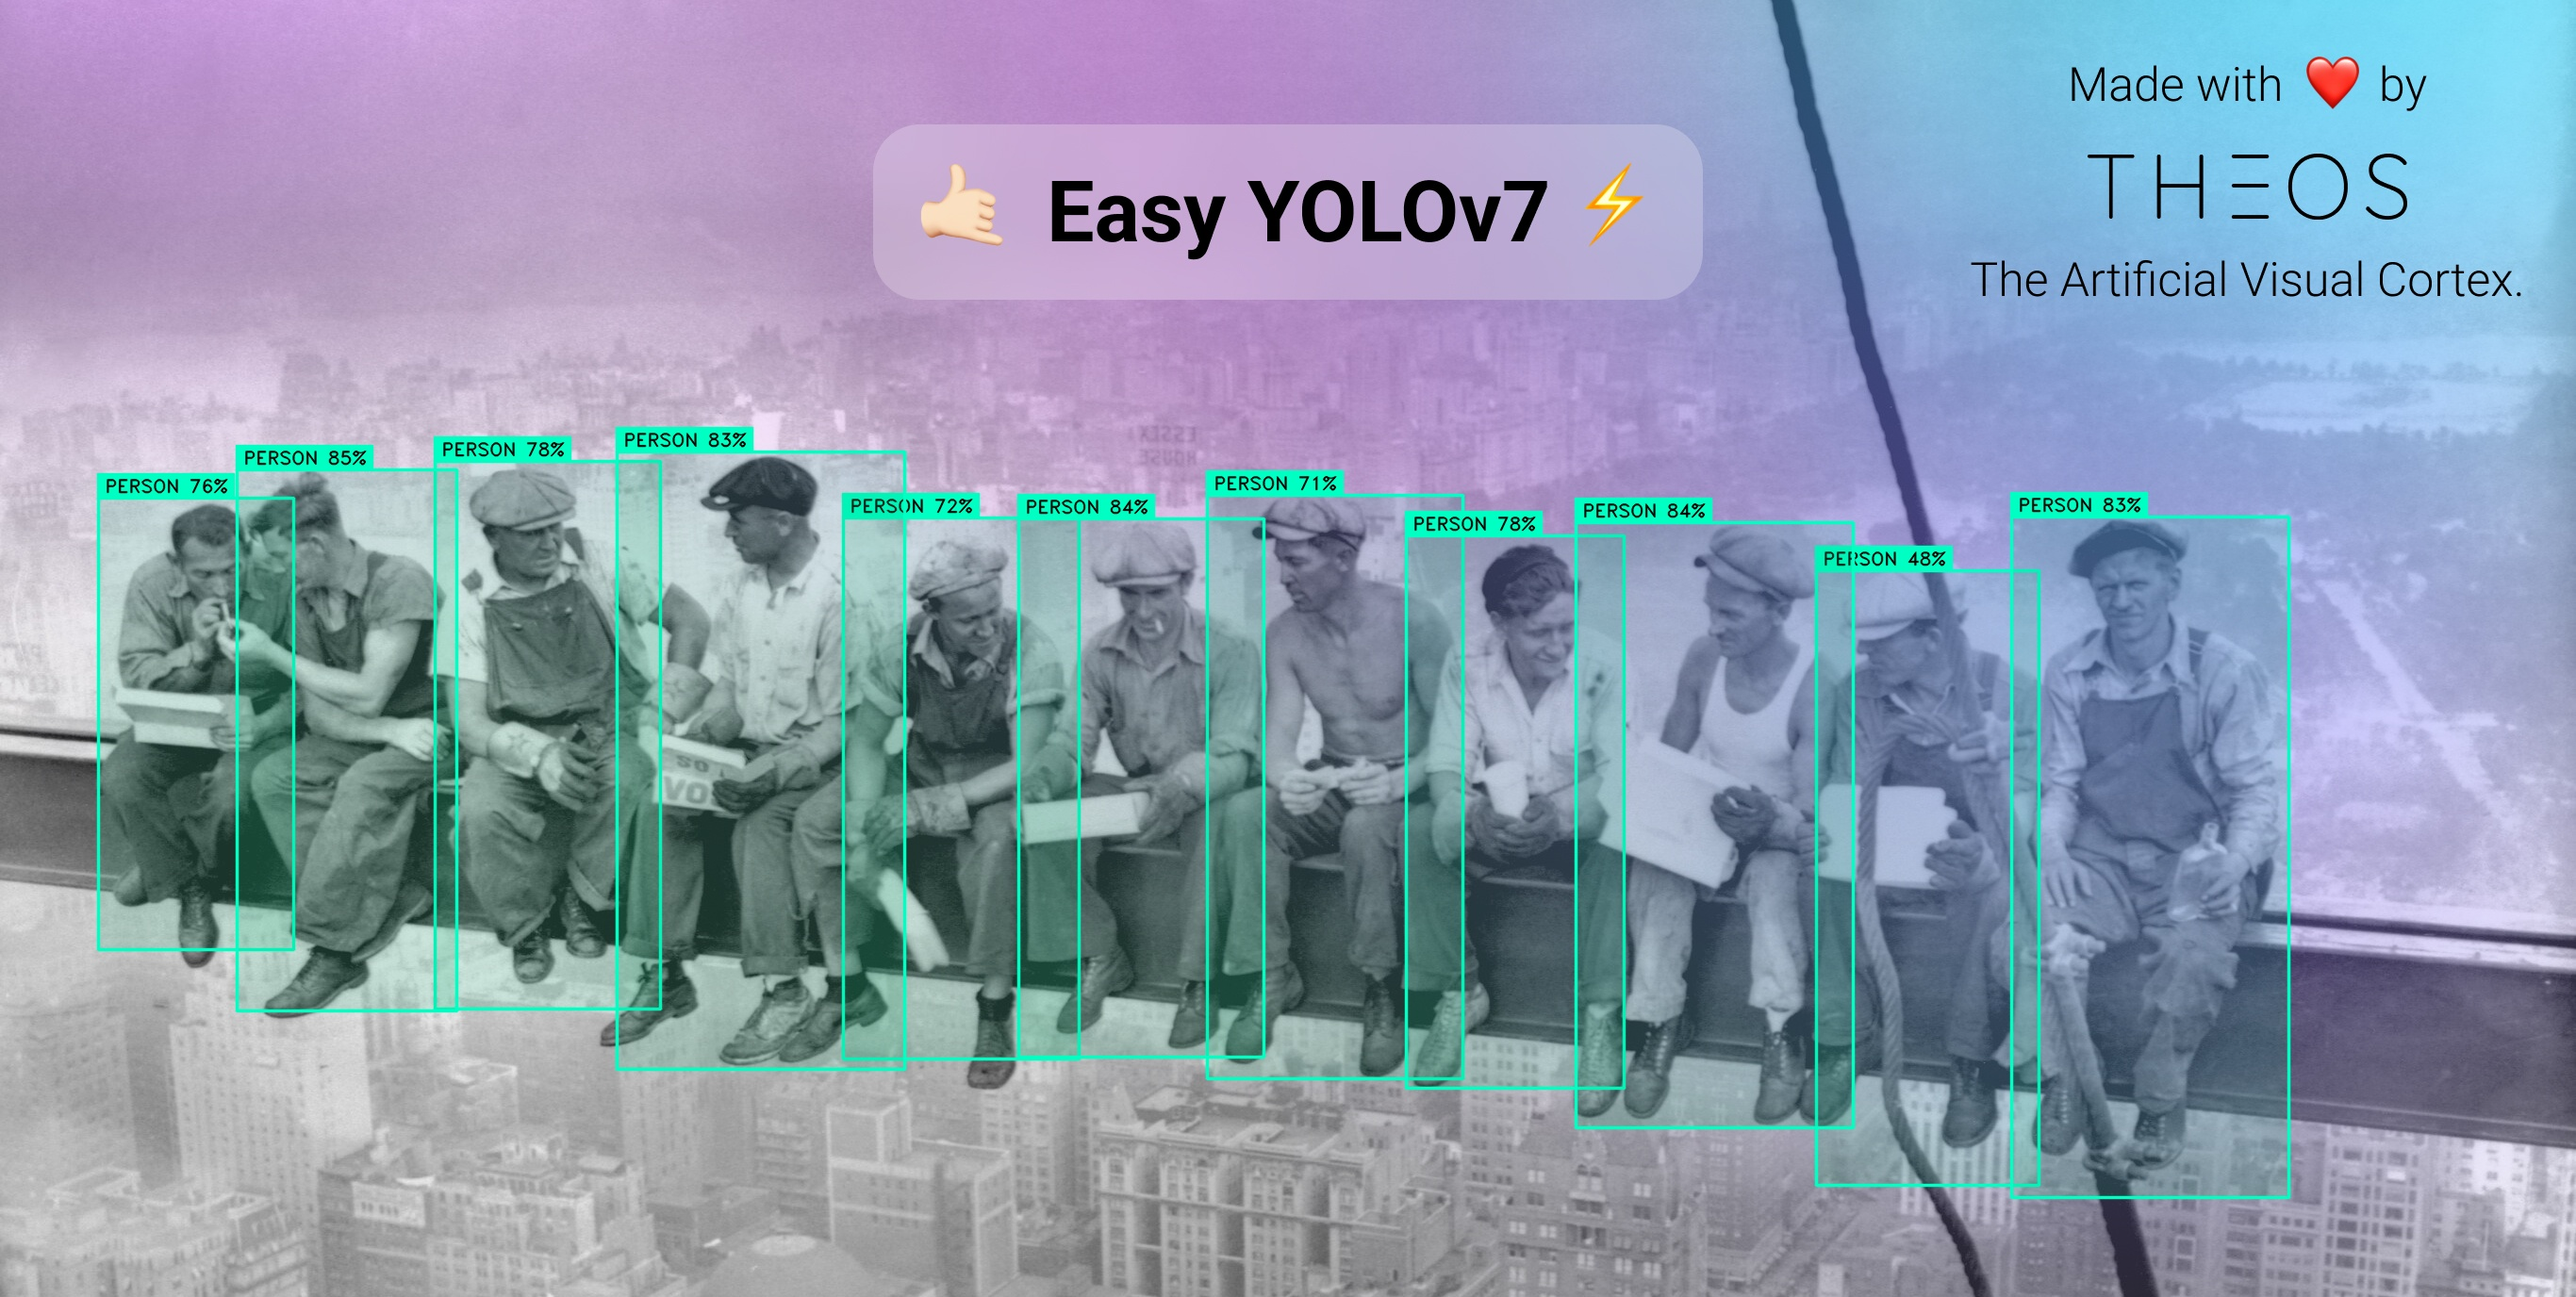
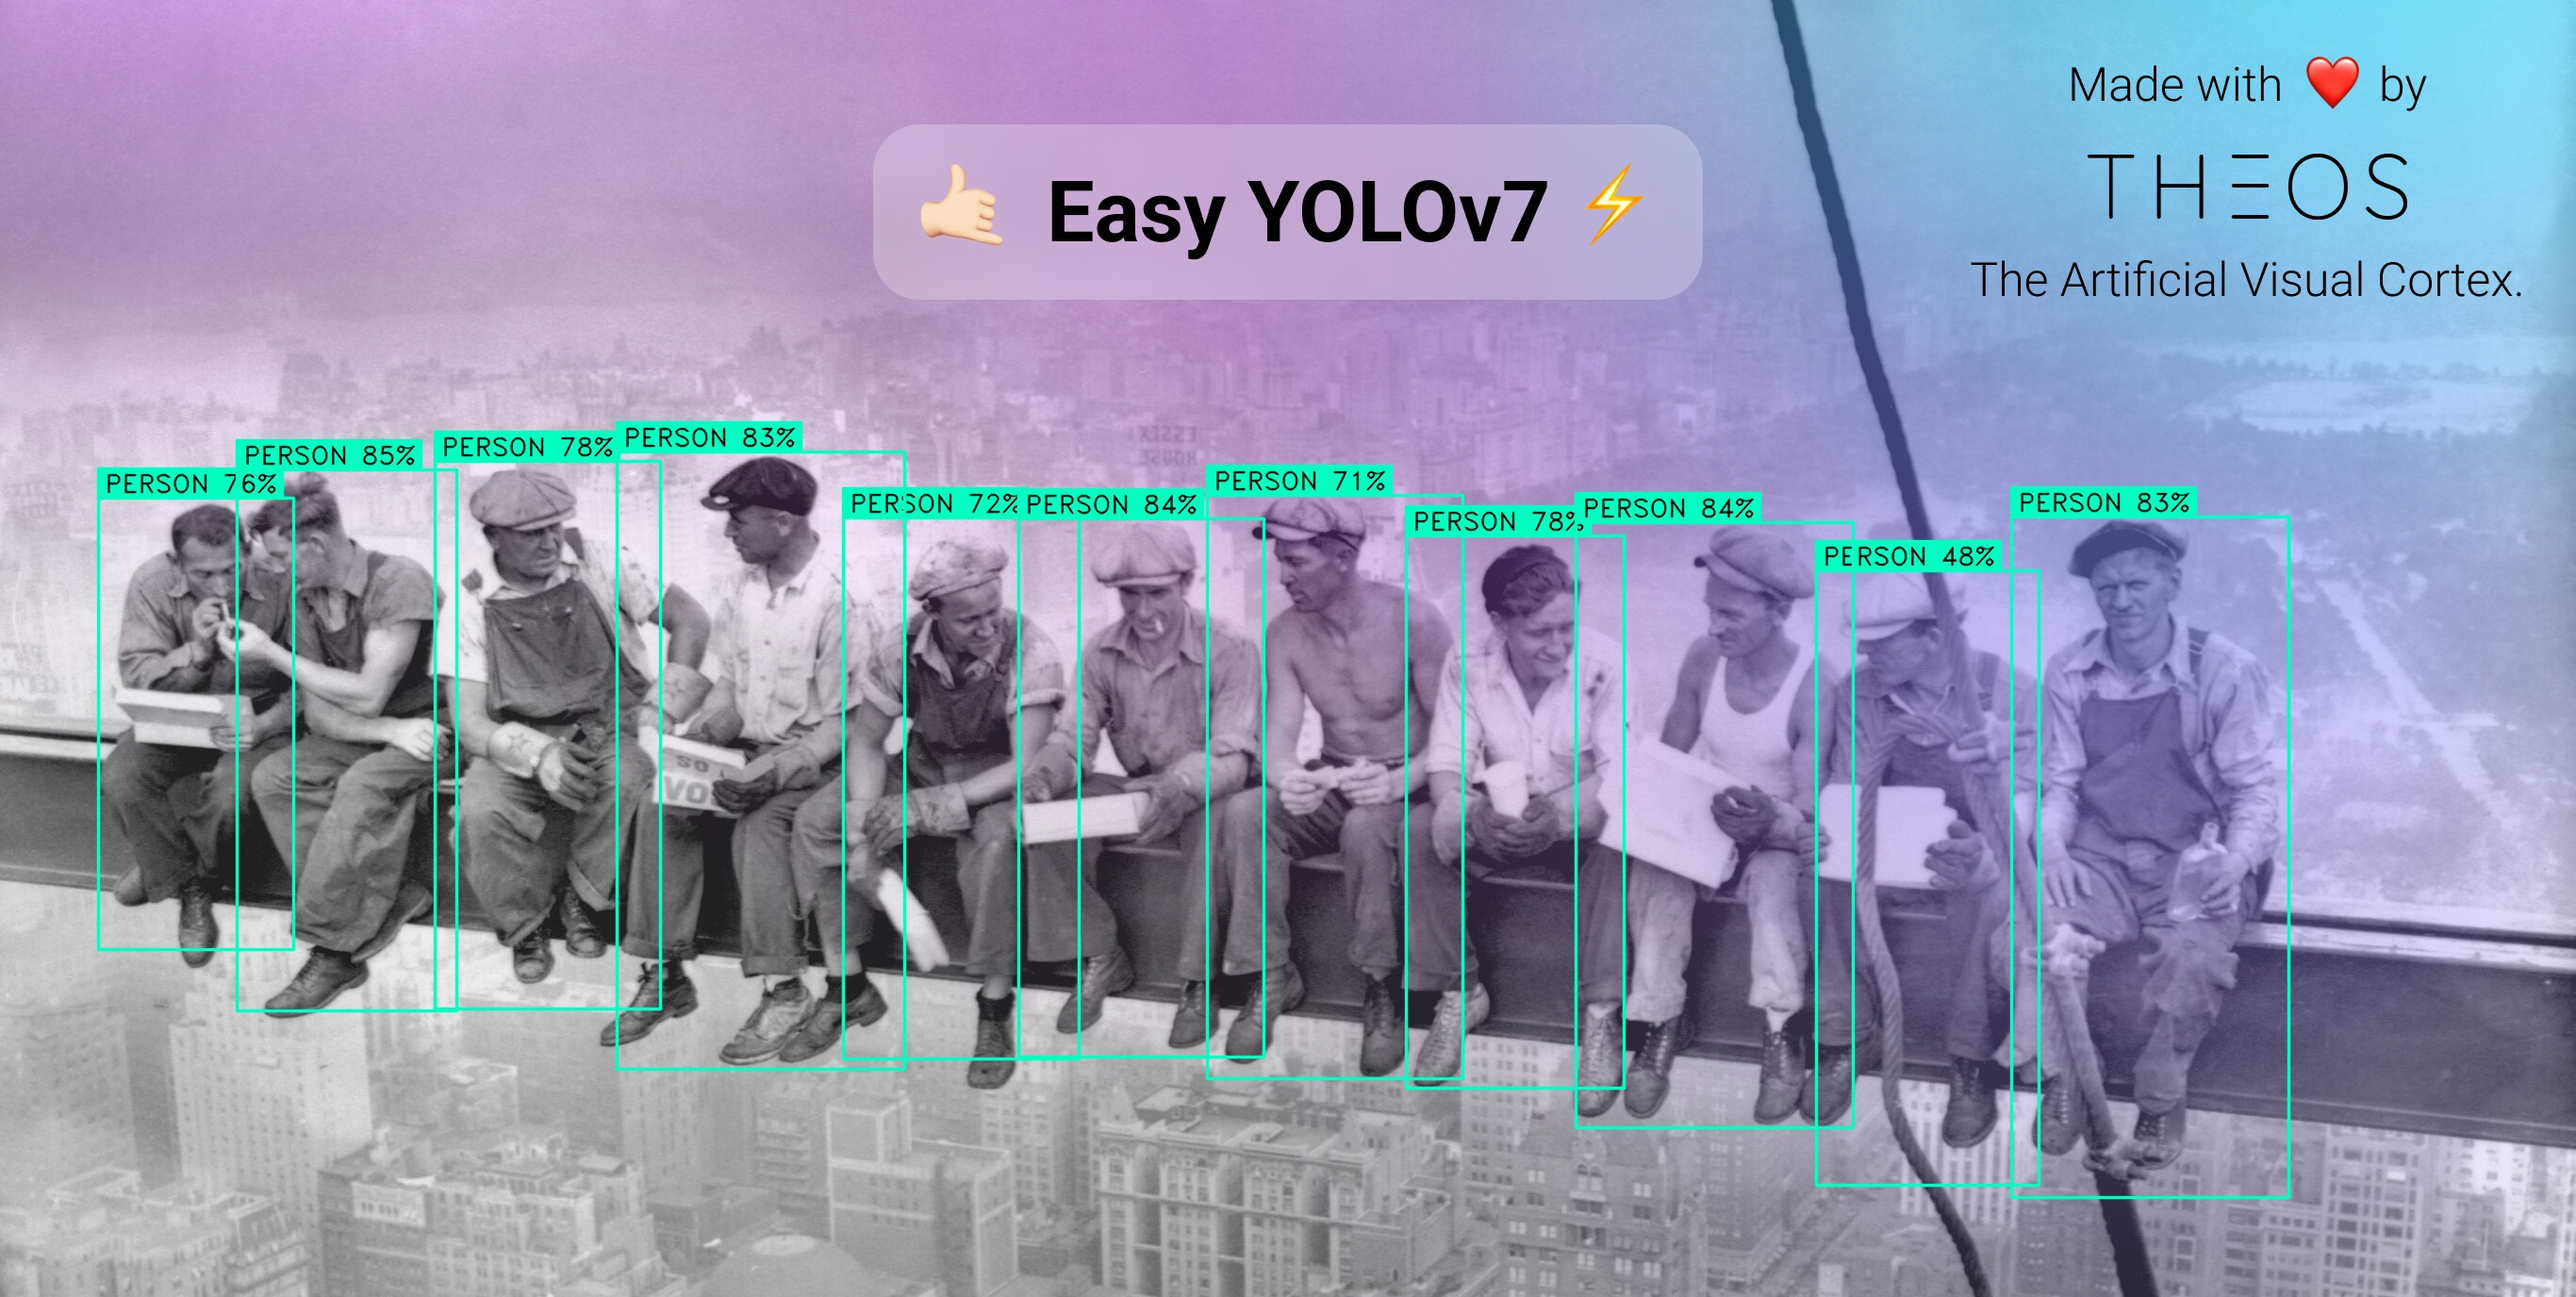
Easy Paddle OCR compatibility

Changed region(s): [[0.0311, 0.3125, 0.8712, 0.9375], [0.84, 0.4688, 0.9023, 0.7188], [0.7778, 0.375, 0.8712, 0.4062]]

diff --git a/algorithm/object_detector.py b/algorithm/object_detector.py
@@ -6,7 +6,6 @@ from utils.torch_utils import select_device
 from utils.detections import Detections
 from utils.datasets import letterbox
 from byte_tracker import BYTETracker
-from utils import ocr
 import numpy as np
 import torch
 import yaml
@@ -21,8 +20,9 @@ class YOLOv7:
             'ocr_classes':ocr_classes
         }
         self.tracker = BYTETracker()
+        self.text_recognizer = None
 
-    def load(self, weights_path, classes, device='cpu'):
+    def load(self, weights_path, classes, ocr_weights=None, device='cpu'):
         with torch.no_grad():
             self.device = select_device(device)
             self.model = attempt_load(weights_path, device=self.device)
@@ -34,6 +34,13 @@ class YOLOv7:
             stride = int(self.model.stride.max())
             self.imgsz = check_img_size(self.settings['img_size'], s=stride)
             self.classes = yaml.load(open(classes), Loader=yaml.SafeLoader)['classes']
+        
+        if len(self.settings['ocr_classes']) > 0 and ocr_weights is not None:
+            from easy_paddle_ocr import TextRecognizer
+            self.text_recognizer = TextRecognizer(weights=ocr_weights, device=device)
+        else:
+            from utils import ocr
+            self.text_recognizer = ocr
 
     def unload(self):
         if self.device.type != 'cpu':
@@ -78,13 +85,13 @@ class YOLOv7:
             
             detections = Detections(raw_detection, self.classes, tracking=track).to_dict()
 
-            if len(self.settings['ocr_classes']) > 0:
+            if len(self.settings['ocr_classes']) > 0 and self.text_recognizer is not None:
                 for detection in detections:
                     if detection['class'] in self.settings['ocr_classes']:
                         cropped_box = crop(im0, detection)
                         text = ''
                         try:
-                            text = ocr.read(cropped_box)
+                            text = self.text_recognizer.read(cropped_box)['text']
                         except:
                             pass
                         detection['text'] = text

diff --git a/utils/detections.py b/utils/detections.py
@@ -87,7 +87,7 @@ class Detections:
         return json.dumps(boxes, indent=4)
 
 
-def plot_box(image, top_left_point, bottom_right_point, width, height, label, color=(210,240,0), padding=6, font_scale=0.25):
+def plot_box(image, top_left_point, bottom_right_point, width, height, label, color=(210,240,0), padding=6, font_scale=0.35):
     label = label.upper()
     
     cv2.rectangle(image, (top_left_point['x'] - 1, top_left_point['y']), (bottom_right_point['x'], bottom_right_point['y']), color, thickness=2, lineType=cv2.LINE_AA)

diff --git a/ocr_image.py b/ocr_image.py
@@ -4,9 +4,9 @@ import json
 import cv2
 
 yolov7 = YOLOv7()
-yolov7.load('coco.weights', classes='coco.yaml', device='cpu') # use 'gpu' for CUDA GPU inference
 yolov7.set(ocr_classes=['cell phone'])
-image = cv2.imread('iphone.jpg')
+yolov7.load('coco.weights', classes='coco.yaml', device='cpu') # use 'gpu' for CUDA GPU inference
+image = cv2.imread('phone.webp')
 detections = yolov7.detect(image)
 detected_image = draw(image, detections)
 cv2.imwrite('detected_phone.jpg', detected_image)

diff --git a/ocr_video.py b/ocr_video.py
@@ -4,9 +4,9 @@ from tqdm import tqdm
 import cv2
 
 yolov7 = YOLOv7()
-yolov7.load('anpr.weights', classes='anpr.yaml', device='cpu') # use 'gpu' for CUDA GPU inference
 ocr_classes=['license-plate']
 yolov7.set(ocr_classes=ocr_classes)
+yolov7.load('anpr.weights', classes='anpr.yaml', device='cpu') # use 'gpu' for CUDA GPU inference
 
 video = cv2.VideoCapture('vehicles.mp4')
 width  = int(video.get(cv2.CAP_PROP_FRAME_WIDTH))

diff --git a/utils/ocr.py b/utils/ocr.py
@@ -18,4 +18,4 @@ def read(image):
             text += '; '
         text += f'{line[1][0]}'
   
-  return text
+  return {'text': text}
